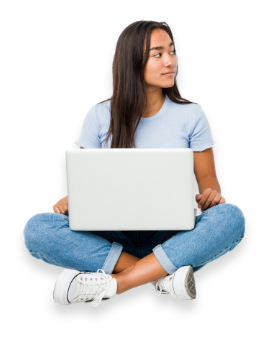
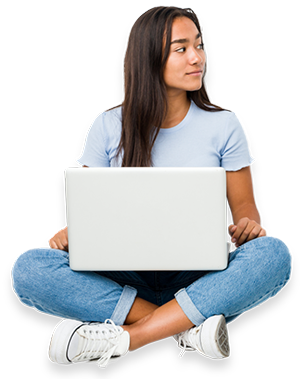
mejora del CSS

diff --git a/src/views/Home.vue b/src/views/Home.vue
@@ -5,7 +5,7 @@
       <div class="banner__content mb-2">
         <div class="container mx-auto">
           <div class="grid grid-cols-1 md:grid-cols-3">
-            <div class="col-span-2 ">
+            <div class="col-span-2 pt-20 mt-10">
               <div class="flex items-center banner__caption">
                 <div>
                   <h1 class="title__principal mb-5">
@@ -17,7 +17,8 @@
                 </div>
               </div>
             </div>
-            <div class="banner__img">
+            <div class="">
+              <div class="banner__img">
               <form @submit.prevent="getDataPostulante">
                 <h2 class="subtitle__basic my-4">
                   Postula y obtén un 10% de descuento en el programa
@@ -54,7 +55,7 @@
                     v-model="dataPostulante.programa"
                   />
                 </Input>
-                <div class="mb-5 flex items-center">
+                <div class="mb-9 flex items-center">
                   <input type="checkbox" name="" id="" class="m-0" />
                   <label for="" class="text__small ml-1 mt-1"
                     >Acepto las Políticas de privacidad.</label
@@ -63,21 +64,29 @@
                 <Btn name="Quiero Potular"></Btn>
               </form>
             </div>
+            </div>
           </div>
         </div>
       </div>
     </section>
     <section class="py-10 fondo-color">
       <div class="container  mx-auto px-4 md:px-0">
-        <p class="text__small mb-2">Con el respaldo de:</p>
-        <div class="flex items-center">
-          <img class="mr-4" src="../assets/images/logo-intercorp.png" alt="" />
-          <img class="mr-4" src="../assets/images/logo-idat.png" alt="" />
-          <img class="mr-3" src="../assets/images/logo-zegel.png" alt="" />
-        </div>
+        <article class="grid md:grid-cols-2 lg:grid-cols-3">
+          <div>
+          <p class="text__small mb-2">Con el respaldo de:</p>
+          <div class="flex items-center">
+            <img class="mr-4" src="../assets/images/logo-intercorp.png" alt="" />
+            <img class="mr-4" src="../assets/images/logo-idat.png" alt="" />
+            <img class="mr-3" src="../assets/images/logo-zegel.png" alt="" />
+          </div>
+          </div>
+          <div class="flex justify-center items-center">
+            <img src="../assets/images/arrow-bottom.png" alt="">
+          </div>
+          </article>
       </div>
     </section>
-    <section class="py-20 fondo-color">
+    <section class="pt-12 pb-24 fondo-color">
       <div class="container mx-auto px-4 md:px-0">
         <h3 class="subtitle__principal mb-7">
           Conoce nuestros Programas de Especialización
@@ -117,7 +126,7 @@
     <section class="my-20">
       <div class="container mx-auto px-4 md:px-0">
         <h3 class="subtitle__principal mb-5">Beneficios</h3>
-        <div class="grid md:grid-cols-2 lg:grid-cols-3">
+        <div class="grid md:grid-cols-2 lg:grid-cols-3 gap-4">
           <div class="col-span-2 ">
             <CardLine
               icon="person_outline"
@@ -253,6 +262,8 @@ export default {
       display: block;
       padding: 3em 2em 3em 3.5em;
       height: 527px;
+      z-index: 9;
+      position: fixed;
     }
     img {
       margin-bottom: -11em;
@@ -266,7 +277,7 @@ export default {
   &__caption {
     padding: 18em 0em 3em 0em;
     @include mediaQ(640px) {
-      padding: 3em 5em 3em 12em;
+      padding: 4em 5em 4em 12em;
     }
   }
 

diff --git a/src/components/CardLine.vue b/src/components/CardLine.vue
@@ -1,9 +1,9 @@
 <template>
   <article class="cardLine">
-    <div class="flex">
+    <div class="flex items-center">
       <i class="large material-icons mr-1 ">{{ icon }}</i>
       <article class="cardLine__caption">
-        <h3 class="subtitle__secundary mb-3">{{ title }}</h3>
+        <h3 class="subtitle__basic mb-3">{{ title }}</h3>
         <p class="cardLine__content">{{ text }}</p>
       </article>
     </div>
@@ -32,6 +32,9 @@ export default {
   padding: 3em;
   border-radius: 7px;
   margin-bottom: 1em;
+  @include mediaQ(796px) {
+      width: 90%;
+    }
   &__caption {
     width: 100%;
   }

diff --git a/src/assets/css/variables.scss b/src/assets/css/variables.scss
@@ -89,11 +89,20 @@ body{
 }
 
 input {
-    border: 1px solid rgb(83, 83, 83);
-    margin-bottom: 8px;
+    border: 1px solid #8B9099;
+    margin-bottom: 9px;
     border-radius: 5px;
     width: 100%;
+    &:focus{
+        outline: #9a8dfd auto 1px;
+    }
 }
 input[type=checkbox]{
     width:initial;
+}
+
+@media (min-width: 1280px){
+    .container {
+        max-width: 1200px;
+    }
 }

diff --git a/src/components/Card.vue b/src/components/Card.vue
@@ -61,10 +61,10 @@ export default {
   position: relative;
   overflow: hidden;
   border-radius: 7px;
-  margin-bottom: 1em;
+  margin-bottom: 2em;
   @include mediaQ(796px) {
     width: 40%;
-    margin-right: 4em;
+    margin-right: 2.5em;
   }
   @include mediaQ(1600px) {
     width: 35%;

diff --git a/src/components/Input.vue b/src/components/Input.vue
@@ -29,6 +29,7 @@ export default {
     font-size: 16px;
     cursor: text;
     width: 100%;
+    color: #8B9099;
   }
   input[type="text"],
   input[type="email"],
